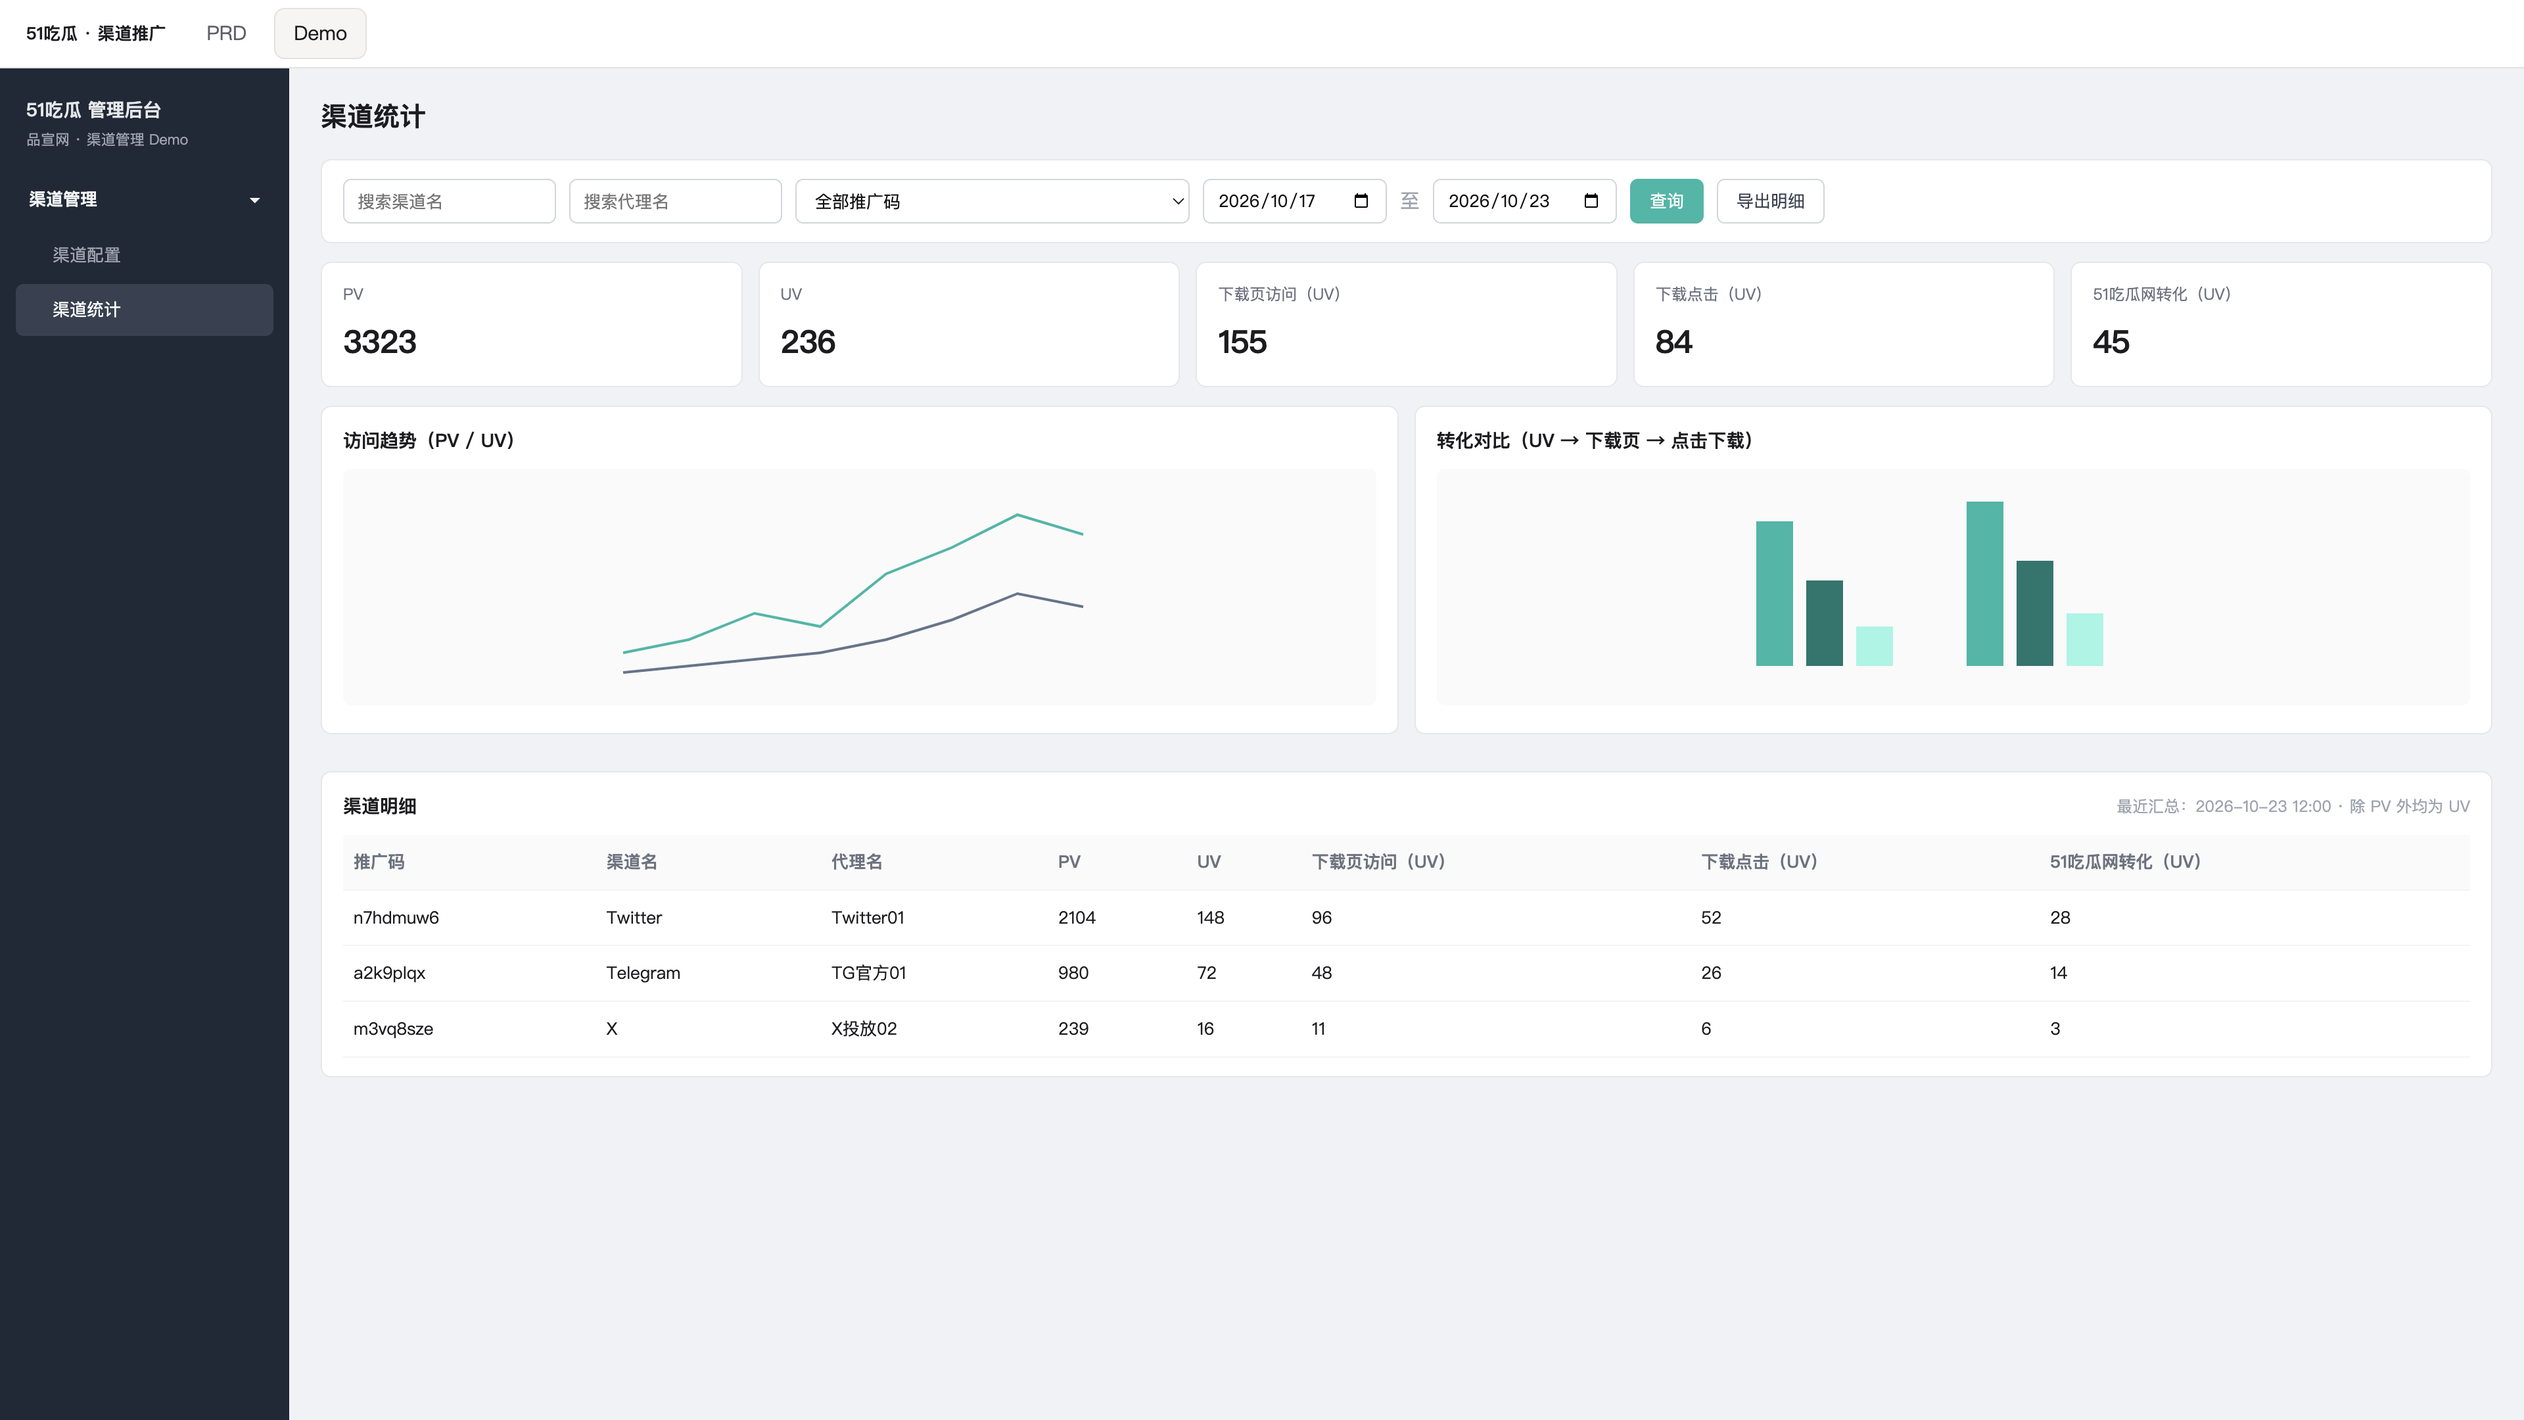
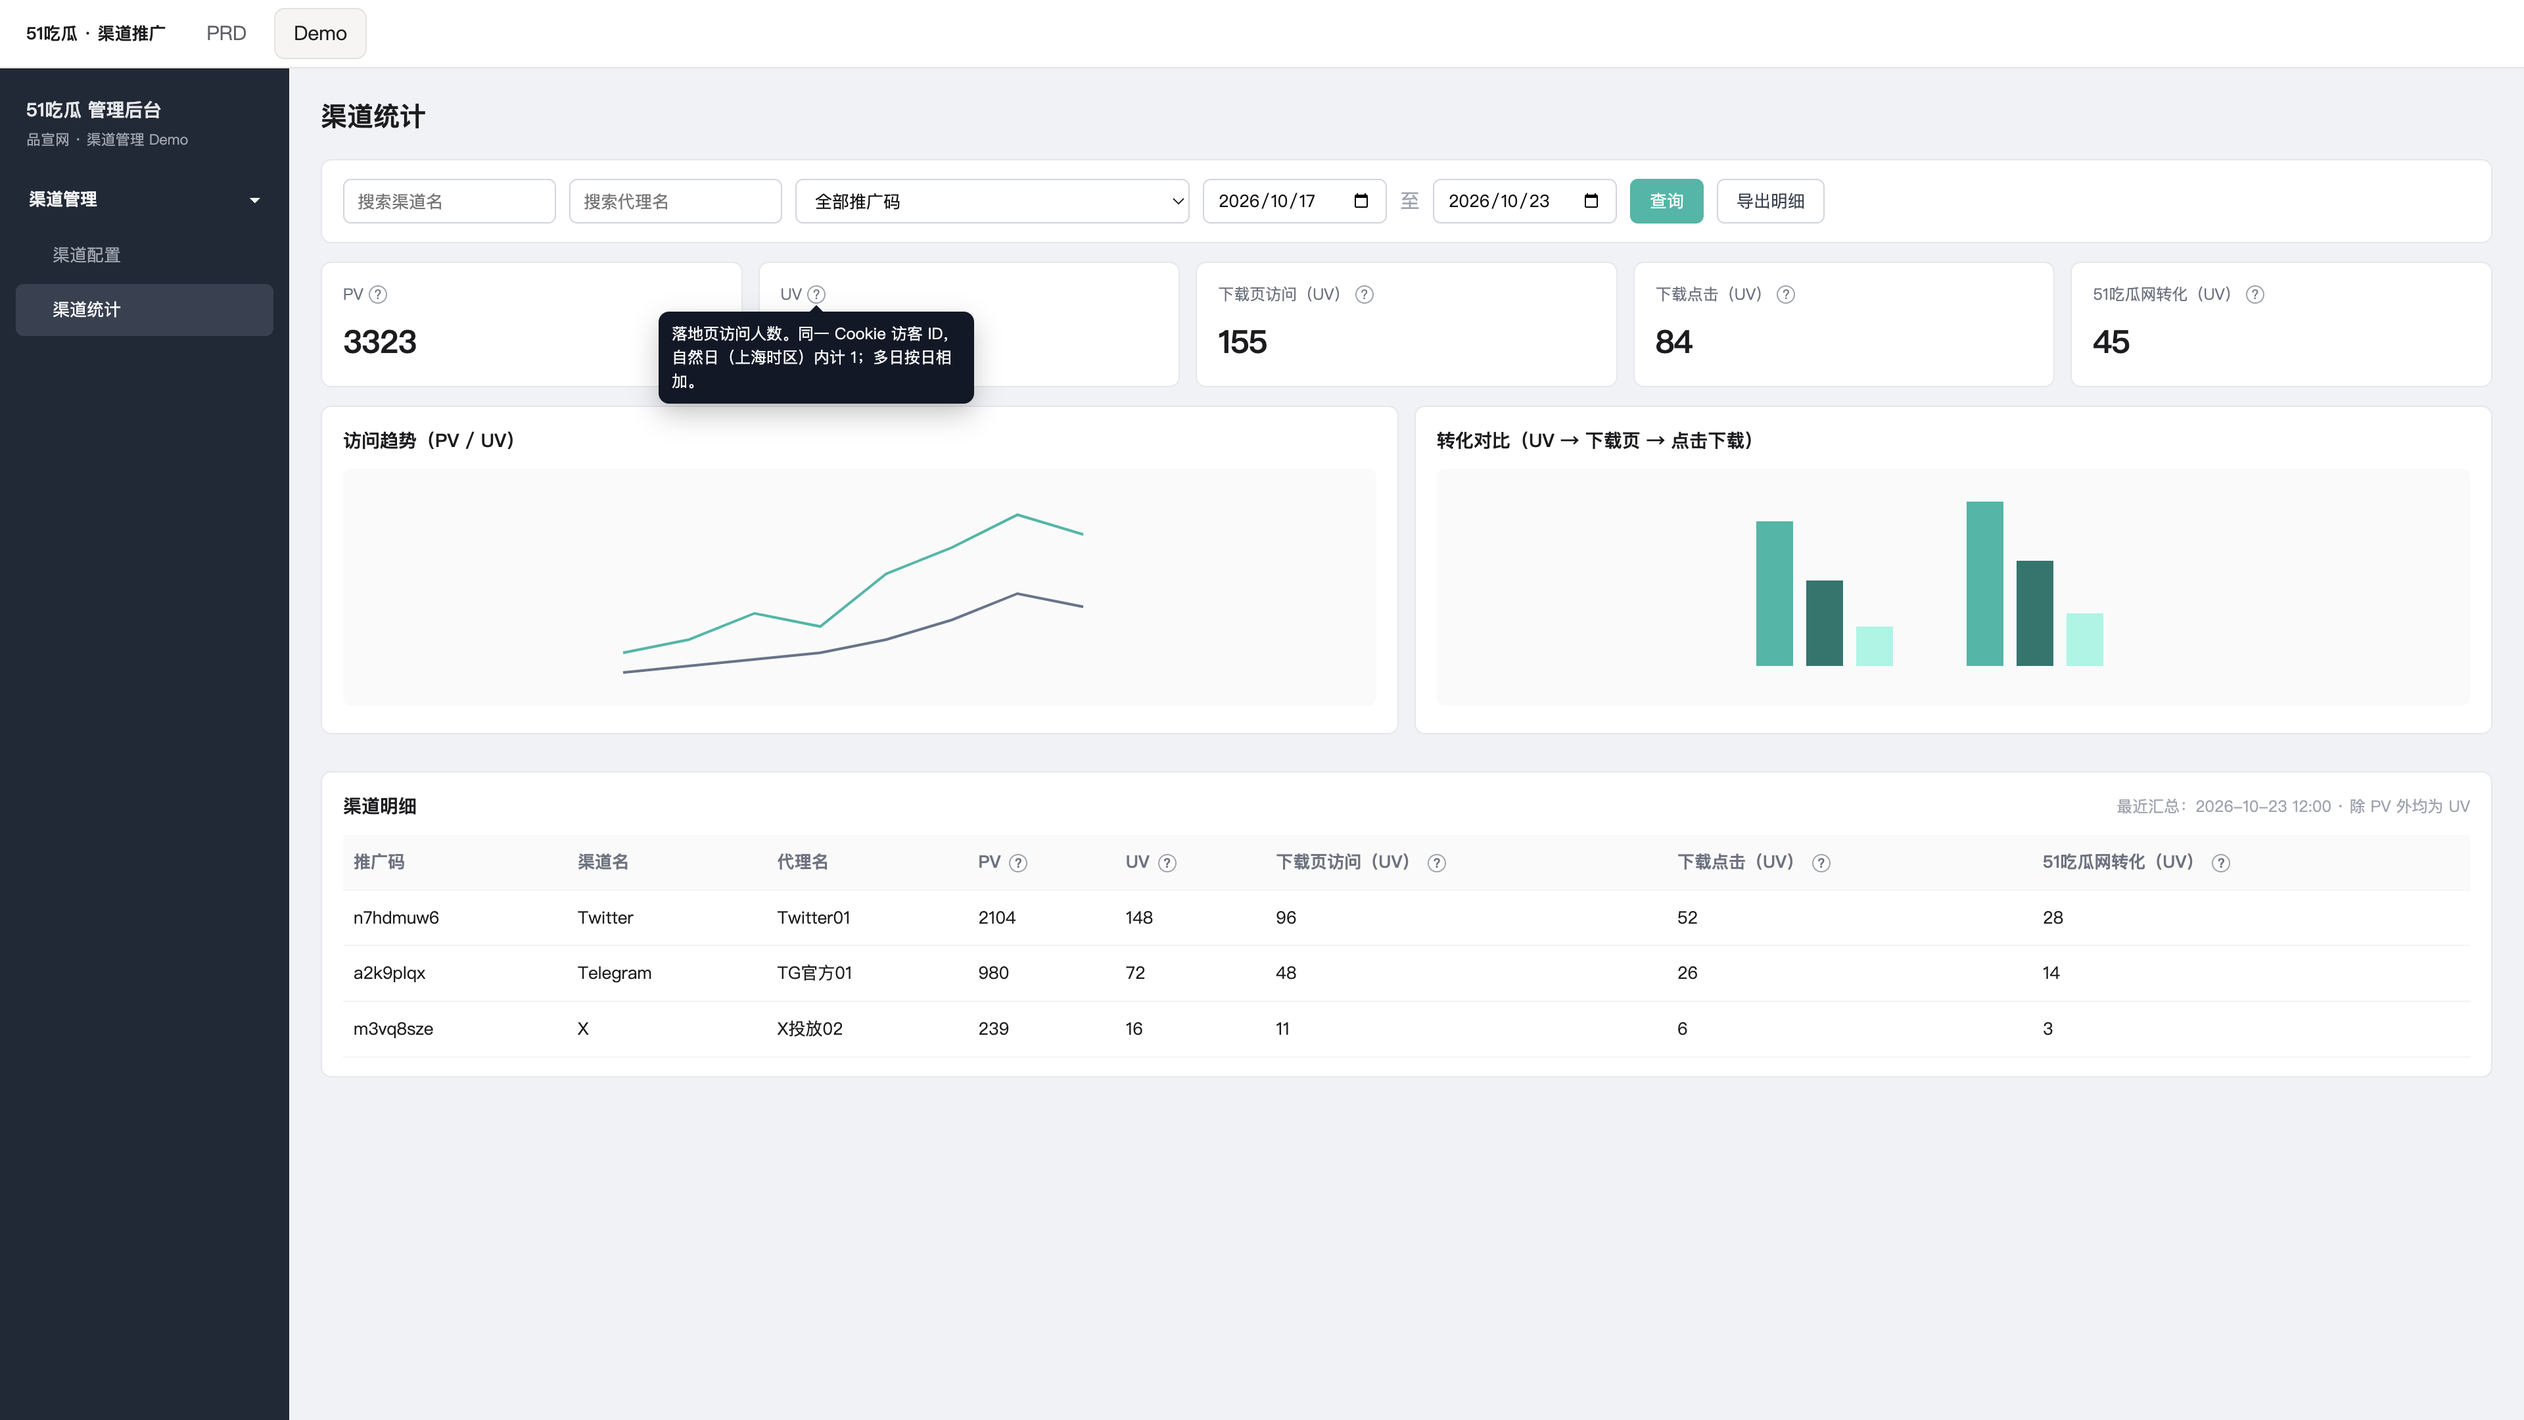
9

diff --git a/51chigua/51吃瓜-渠道推广链接与数据统计-prd-demo.html b/51chigua/51吃瓜-渠道推广链接与数据统计-prd-demo.html
@@ -29,6 +29,7 @@ body { background: #f6f5f3; color: #1c1c1f; font: 15px/1.65 "PingFang SC", "Noto
 #view-prd h1 { font-size: 28px; line-height: 1.3; margin: 0 0 8px; }
 #view-prd h2 { font-size: 18px; margin: 28px 0 10px; }
 #view-prd h3 { font-size: 14px; margin: 16px 0 6px; color: #0f766e; }
+#view-prd h4 { font-size: 13px; margin: 12px 0 6px; color: #334155; font-weight: 650; }
 #view-prd .meta { color: #5e5e66; font-size: 13px; margin-bottom: 12px; }
 #view-prd p { margin: 0 0 8px; }
 #view-prd ul { margin: 0 0 8px; padding-left: 18px; }
@@ -103,8 +104,42 @@ table.data th { color: #6b7280; font-weight: 600; background: #fafafa; white-spa
 .kpi {
   background: #fff; border: 1px solid #e5e7eb; border-radius: 8px; padding: 14px 16px;
 }
-.kpi .label { color: #6b7280; font-size: 12px; }
+.kpi .label {
+  color: #6b7280; font-size: 12px;
+  display: flex; align-items: center; gap: 4px;
+}
 .kpi .value { font-size: 24px; font-weight: 700; margin-top: 6px; letter-spacing: -0.02em; }
+.tip {
+  position: relative;
+  display: inline-flex; align-items: center; justify-content: center;
+  width: 14px; height: 14px; border-radius: 50%;
+  border: 1px solid #9ca3af; color: #6b7280;
+  font-size: 10px; line-height: 1; cursor: help; flex-shrink: 0;
+  background: #fff;
+}
+.tip-bubble {
+  display: none; position: absolute; z-index: 30;
+  left: 50%; top: calc(100% + 7px); transform: translateX(-50%);
+  width: 240px; padding: 8px 10px;
+  background: #111827; color: #f9fafb;
+  font-size: 12px; font-weight: 400; line-height: 1.5;
+  border-radius: 8px; box-shadow: 0 8px 20px rgba(0,0,0,.22);
+  white-space: normal; text-align: left; pointer-events: none;
+}
+.tip-bubble::before {
+  content: ""; position: absolute; left: 50%; bottom: 100%;
+  transform: translateX(-50%);
+  border: 5px solid transparent; border-bottom-color: #111827;
+}
+.tip:hover .tip-bubble, .tip:focus .tip-bubble, .tip:focus-within .tip-bubble { display: block; }
+.kpi:nth-child(n+4) .tip-bubble {
+  left: auto; right: 0; transform: none;
+}
+.kpi:nth-child(n+4) .tip-bubble::before {
+  left: auto; right: 6px; transform: none;
+}
+th .tip { vertical-align: middle; margin-left: 2px; }
+th .tip-bubble { width: 220px; }
 .charts { display: grid; grid-template-columns: 1fr 1fr; gap: 12px; margin-bottom: 14px; }
 .chart-box h3 { margin: 0 0 10px; font-size: 14px; }
 .chart-svg { width: 100%; height: 180px; background: #fafafa; border-radius: 6px; }
@@ -154,7 +189,7 @@ table.data th { color: #6b7280; font-weight: 600; background: #fafafa; white-spa
 <div class="pane" id="view-prd">
   <div class="wrap">
     <h1>51吃瓜品宣网 · 渠道推广链接配置与数据统计</h1>
-    <div class="meta">版本 v3.1 · 2026-10-24 · 仅品宣网 · 截图均来自本页 Demo（可点击放大）</div>
+    <div class="meta">版本 v3.2 · 2026-10-24 · 仅品宣网 · 截图均来自本页 Demo（可点击放大）</div>
 
     <h2>一、需求目的</h2>
     <p>为不同推广平台、账号配置独立推广链接，统计品宣网从落地访问、下载页访问、点击下载到进入 51吃瓜网的转化，方便运营评估各渠道及账号引流质量。</p>
@@ -166,7 +201,7 @@ table.data th { color: #6b7280; font-weight: 600; background: #fafafa; white-spa
         <tr><td>菜单</td><td>新开「渠道管理」→ 渠道配置、渠道统计</td></tr>
         <tr><td>覆盖范围</td><td>仅品宣网（不含 APP）</td></tr>
         <tr><td>渠道配置</td><td>新建、启停、复制、有限编辑（仅名称/备注）；落地页固定</td></tr>
-        <tr><td>渠道统计</td><td>PV、UV、下载页访问（UV）、下载点击（UV）、51吃瓜网转化（UV）；汇总 + 图表 + 明细 + 导出</td></tr>
+        <tr><td>渠道统计</td><td>PV、UV、下载页访问（UV）、下载点击（UV）、51吃瓜网转化（UV）；汇总 + 图表 + 明细 + 导出；指标旁「?」悬停看口径</td></tr>
         <tr><td>筛选</td><td>日期；渠道名/代理名搜索；推广码（展示带名称）</td></tr>
         <tr><td>归因</td><td>一律跟推广码；名称可改只影响展示</td></tr>
       </tbody>
@@ -224,20 +259,30 @@ table.data th { color: #6b7280; font-weight: 600; background: #fafafa; white-spa
     <table>
       <thead><tr><th>指标</th><th>口径</th><th>说明</th></tr></thead>
       <tbody>
-        <tr><td>PV</td><td>次数</td><td>落地页访问次数</td></tr>
-        <tr><td>UV</td><td>人数</td><td>落地页访问人数</td></tr>
-        <tr><td>下载页访问（UV）</td><td>人数</td><td>到达下载页的人数</td></tr>
-        <tr><td>下载点击（UV）</td><td>人数</td><td>在下载页点击下载的人数</td></tr>
-        <tr><td>51吃瓜网转化（UV）</td><td>人数</td><td>经该渠道从品宣网成功进入 51吃瓜网的人数</td></tr>
+        <tr><td>PV</td><td>次数</td><td>落地页访问次数；每次打开计 1，不去重</td></tr>
+        <tr><td>UV</td><td>人数</td><td>落地页访问人数；按下方 UV 规则去重</td></tr>
+        <tr><td>下载页访问（UV）</td><td>人数</td><td>到达下载页的人数；按 UV 规则去重</td></tr>
+        <tr><td>下载点击（UV）</td><td>人数</td><td>在下载页点击下载的人数；按 UV 规则去重</td></tr>
+        <tr><td>51吃瓜网转化（UV）</td><td>人数</td><td>经该渠道从品宣网成功进入 51吃瓜网的人数；按 UV 规则去重</td></tr>
       </tbody>
     </table>
+
+    <h4>UV 去重规则（已定）</h4>
+    <ul>
+      <li>访客标识：品宣网域下用第一方 Cookie 写入匿名 visitor_id（首次访问生成，长期有效）；无法写 Cookie 时用当次会话临时 ID。</li>
+      <li>去重窗口：自然日（时区 Asia/Shanghai，当日 00:00–24:00）。</li>
+      <li>计次：同一自然日、同一 visitor_id，同一指标最多计 1；当日重复访问或重复点击不叠加。</li>
+      <li>多日筛选：所选日期范围内，各自然日 UV 相加（不做跨日合并，规则简单可落地）。</li>
+      <li>指标独立：落地 UV、下载页访问 UV、下载点击 UV、51吃瓜网转化 UV 各自按「完成该行为」的访客去重，互不替代。</li>
+    </ul>
     <p>用户到达落地页后，路径全程保留渠道来源（推广码），便于后续下载页访问、点击下载及跳转 51吃瓜网的归因。</p>
 
     <h3>5.4 展示与导出</h3>
     <ul>
       <li>汇总卡片 + 简单图表（示意）+ 明细表</li>
+      <li>汇总卡片、明细表头的每个指标名称右侧放小「?」；鼠标悬停（或键盘聚焦）弹出气泡，展示该指标定义与 UV 去重要点（若适用）</li>
       <li>明细含：推广码 + 渠道名 + 代理名 + 指标；下载页访问 / 下载点击 / 51吃瓜网转化列名须标注 UV</li>
-      <li>导出当前筛选下的明细（列名与界面一致，含 UV 标注）</li>
+      <li>导出当前筛选下的明细（列名与界面一致，含 UV 标注）；导出表不含「?」交互</li>
     </ul>
 
     <h2>六、验收标准</h2>
@@ -246,7 +291,9 @@ table.data th { color: #6b7280; font-weight: 600; background: #fafafa; white-spa
       <tbody>
         <tr><td>配置</td><td>可为品宣网建链；落地固定；可复制；名称/备注可改；码与地址不可改；无删除</td></tr>
         <tr><td>统计指标</td><td>PV、UV、下载页访问（UV）、下载点击（UV）、51吃瓜网转化（UV）</td></tr>
-        <tr><td>口径</td><td>下载链路与转化为 UV；汇总/明细/导出列名均标明 UV；落地后路径保留推广码归因</td></tr>
+        <tr><td>UV 去重</td><td>Cookie visitor_id + 自然日（上海时区）；同日同指标最多计 1；多日按日相加；各指标独立去重</td></tr>
+        <tr><td>口径说明</td><td>汇总卡与明细表头指标旁有「?」，悬停气泡展示定义与规则</td></tr>
+        <tr><td>口径</td><td>下载链路与转化为 UV；列名标明 UV；落地后路径保留推广码归因</td></tr>
         <tr><td>筛选</td><td>日期、名称搜索、推广码（带名称展示）</td></tr>
         <tr><td>归因</td><td>跟推广码；进入 51吃瓜网可延续来源</td></tr>
         <tr><td>导出</td><td>可导出当前明细</td></tr>
@@ -306,11 +353,36 @@ table.data th { color: #6b7280; font-weight: 600; background: #fafafa; white-spa
         <datalist id="dl-agent"></datalist>
 
         <div class="kpis">
-          <div class="kpi"><div class="label">PV</div><div class="value" id="kw-pv">0</div></div>
-          <div class="kpi"><div class="label">UV</div><div class="value" id="kw-uv">0</div></div>
-          <div class="kpi"><div class="label">下载页访问（UV）</div><div class="value" id="kw-dl">0</div></div>
-          <div class="kpi"><div class="label">下载点击（UV）</div><div class="value" id="kw-jump">0</div></div>
-          <div class="kpi"><div class="label">51吃瓜网转化（UV）</div><div class="value" id="kw-conv">0</div></div>
+          <div class="kpi">
+            <div class="label">PV
+              <span class="tip" tabindex="0">?<span class="tip-bubble">落地页访问次数。每次打开计 1，不去重。</span></span>
+            </div>
+            <div class="value" id="kw-pv">0</div>
+          </div>
+          <div class="kpi">
+            <div class="label">UV
+              <span class="tip" tabindex="0">?<span class="tip-bubble">落地页访问人数。同一 Cookie 访客 ID，自然日（上海时区）内计 1；多日按日相加。</span></span>
+            </div>
+            <div class="value" id="kw-uv">0</div>
+          </div>
+          <div class="kpi">
+            <div class="label">下载页访问（UV）
+              <span class="tip" tabindex="0">?<span class="tip-bubble">到达下载页的人数。按访客 ID + 自然日去重；当日重复进入不计多次；多日按日相加。</span></span>
+            </div>
+            <div class="value" id="kw-dl">0</div>
+          </div>
+          <div class="kpi">
+            <div class="label">下载点击（UV）
+              <span class="tip" tabindex="0">?<span class="tip-bubble">在下载页点击下载的人数。按访客 ID + 自然日去重；当日重复点击不计多次；多日按日相加。</span></span>
+            </div>
+            <div class="value" id="kw-jump">0</div>
+          </div>
+          <div class="kpi">
+            <div class="label">51吃瓜网转化（UV）
+              <span class="tip" tabindex="0">?<span class="tip-bubble">经该渠道进入 51吃瓜网的人数。按访客 ID + 自然日去重；多日按日相加。</span></span>
+            </div>
+            <div class="value" id="kw-conv">0</div>
+          </div>
         </div>
 
         <div class="charts">
@@ -346,8 +418,11 @@ table.data th { color: #6b7280; font-weight: 600; background: #fafafa; white-spa
               <thead>
                 <tr>
                   <th>推广码</th><th>渠道名</th><th>代理名</th>
-                  <th>PV</th><th>UV</th>
-                  <th>下载页访问（UV）</th><th>下载点击（UV）</th><th>51吃瓜网转化（UV）</th>
+                  <th>PV <span class="tip" tabindex="0">?<span class="tip-bubble">落地页访问次数。每次打开计 1，不去重。</span></span></th>
+                  <th>UV <span class="tip" tabindex="0">?<span class="tip-bubble">落地页访问人数。访客 ID + 自然日去重；多日按日相加。</span></span></th>
+                  <th>下载页访问（UV） <span class="tip" tabindex="0">?<span class="tip-bubble">到达下载页的人数。访客 ID + 自然日去重；多日按日相加。</span></span></th>
+                  <th>下载点击（UV） <span class="tip" tabindex="0">?<span class="tip-bubble">点击下载的人数。访客 ID + 自然日去重；多日按日相加。</span></span></th>
+                  <th>51吃瓜网转化（UV） <span class="tip" tabindex="0">?<span class="tip-bubble">进入 51吃瓜网的人数。访客 ID + 自然日去重；多日按日相加。</span></span></th>
                 </tr>
               </thead>
               <tbody id="st-tbody"></tbody>
